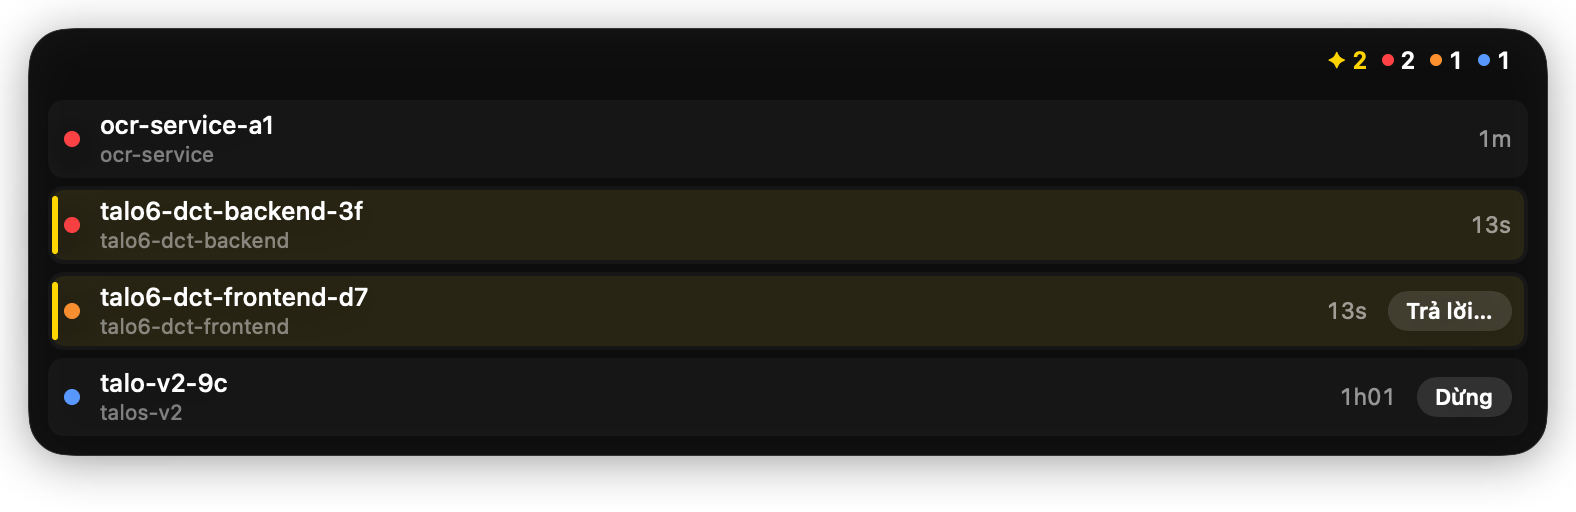
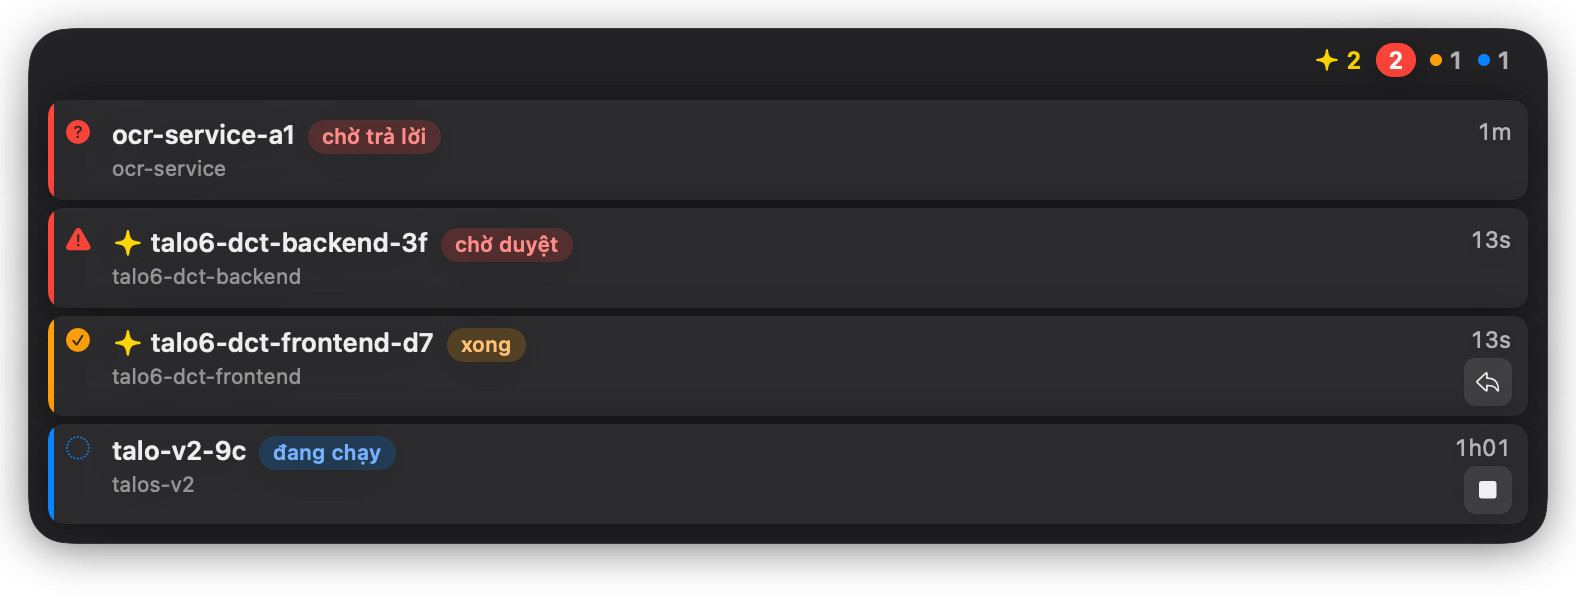
Phase 7: Keyboard navigation and docs

diff --git a/claude-sessions/Sources/ClaudeSessionsKit/WidgetView.swift b/claude-sessions/Sources/ClaudeSessionsKit/WidgetView.swift
@@ -190,6 +190,12 @@ public struct WidgetView: View {
             Button("Thoát") { NSApp.terminate(nil) }
         }
         .animation(.spring(response: 0.36, dampingFraction: 0.8), value: expanded)
+        .onChange(of: panel.keyboard) { _, on in
+            if let m = panel.keyMonitor { NSEvent.removeMonitor(m); panel.keyMonitor = nil }
+            // Keyboard mode starts on the first card and forgets the selection when it ends.
+            panel.selected = on ? store.sessions.first?.id : nil
+            if on { panel.keyMonitor = NSEvent.addLocalMonitorForEvents(matching: .keyDown) { handleKey($0) } }
+        }
         .onChange(of: expanded) { _, now in if !now { panel.openMenus = []; panel.closedOpen = false; panel.pruneQuestions(live: store.sessions.compactMap(\.question)) } }
         .animation(.spring(response: 0.36, dampingFraction: 0.8), value: store.sessions.count)
         .frame(maxWidth: .infinity, maxHeight: .infinity, alignment: panel.anchor.alignment)
@@ -227,7 +233,13 @@ public struct WidgetView: View {
                 rows.fixedSize(horizontal: false, vertical: true)
                     .frame(maxHeight: Layout.maxListHeight, alignment: panel.anchor.up ? .bottom : .top).clipped()
             } else {
-                ScrollView(.vertical) { rows }.frame(height: height)
+                ScrollViewReader { proxy in
+                    ScrollView(.vertical) { rows }
+                        .onChange(of: panel.selected) { _, id in
+                            if let id { withAnimation(.easeOut(duration: 0.15)) { proxy.scrollTo(id) } }
+                        }
+                }
+                .frame(height: height)
             }
         }
         .task(id: panel.dwellTarget(in: store)) {
@@ -238,8 +250,50 @@ public struct WidgetView: View {
         }
         .onChange(of: store.sessions.map(\.id)) { old, new in
             panel.noteOrderChange(from: old, to: new)
+            panel.reconcileSelection(old: old, new: new)
         }
         .transition(.opacity)
+    }
+
+    /// Keyboard mode: handles the key table on the selected card; returns nil when the event is consumed.
+    private func handleKey(_ e: NSEvent) -> NSEvent? {
+        guard panel.keyboard, panel.editing == nil, (e.window as? WidgetPanel)?.state === panel else { return e }
+        let ids = store.sessions.map(\.id)
+        let flags = e.modifierFlags.intersection([.command, .control, .option])
+        if e.keyCode == 53 {
+            panel.pinnedOpen = false; panel.pinnedEntered = false; panel.hovering = false; panel.keyboard = false
+            return nil
+        }
+        if e.keyCode == 126 || e.keyCode == 125 {
+            guard flags.isEmpty else { return e }
+            panel.moveSelection(e.keyCode == 126 ? -1 : 1, ids: ids)
+            return nil
+        }
+        let isReturn = e.keyCode == 36 || e.keyCode == 76
+        let key = isReturn ? "\r" : (e.charactersIgnoringModifiers ?? "").lowercased()
+        guard isReturn || flags.isEmpty, isReturn || key.count == 1 else { return e }
+        guard let id = panel.selected, let s = store.sessions.first(where: { $0.id == id }) else { NSSound.beep(); return nil }
+        let inCmux = !store.surfaceMisses.contains(id)
+        let form: FeedQuestion? = s.question.flatMap { store.blockState(of: s) == .form ? $0 : nil }
+        switch key {
+        case "\r" where flags == .command:
+            if let q = form, Feed.complete(q, answers: panel.answers[q.requestId] ?? [], other: panel.others[q.requestId] ?? [:]) { sendAnswer(s, q) } else { NSSound.beep() }
+        case "\r" where flags.isEmpty:
+            onAction(.jump(id))
+        case "a" where flags.isEmpty:
+            if let p = s.approvable, case .one(let one)? = s.pending, p.toolId == one.toolId {
+                let fit = Layout.commandFit(one.text)
+                if fit == .short || (fit == .long && store.shownCommands.contains(one.toolId)) { onAction(.approve(id, toolId: p.toolId)) } else { NSSound.beep() }
+            } else { NSSound.beep() }
+        case "d" where flags.isEmpty:
+            if let p = s.approvable { panel.editing = Store.Editing(id: id, kind: .deny, toolId: p.toolId) } else { NSSound.beep() }
+        case "r" where flags.isEmpty:
+            if s.canAskClaude && inCmux { panel.editing = Store.Editing(id: id, kind: .reply) } else { NSSound.beep() }
+        default:
+            guard flags.isEmpty, let n = Int(key), (1...9).contains(n) else { return e }
+            if let q = form, let hit = PanelState.optionAt(q, number: n) { panel.pick(q, hit.question, hit.label) } else { NSSound.beep() }
+        }
+        return nil
     }
 
     private var closedGroup: some View {
@@ -319,5 +373,5 @@ public final class DragHostingView<V: View>: NSHostingView<V> {
 public final class WidgetPanel: NSPanel {
     public override func constrainFrameRect(_ frameRect: NSRect, to screen: NSScreen?) -> NSRect { frameRect }
     public weak var state: PanelState?
-    public override var canBecomeKey: Bool { state?.editing != nil }
+    public override var canBecomeKey: Bool { state?.editing != nil || state?.keyboard == true }
 }

diff --git a/claude-sessions/Sources/ClaudeSessions/main.swift b/claude-sessions/Sources/ClaudeSessions/main.swift
@@ -83,14 +83,14 @@ final class AppDelegate: NSObject, NSApplicationDelegate {
         }
         window.contentView = host
 
-        state.$editing.sink { [weak self, weak window] e in
+        state.$editing.sink { [weak self, weak window, weak state] e in
             guard let window else { return }
             // @Published fires before the value is stored, so defer until canBecomeKey sees it.
             DispatchQueue.main.async { [weak self] in
                 guard let store = self?.store else { return }
                 if e != nil {
                     if !store.hidden { window.makeKey() }
-                } else if window.isKeyWindow && !store.hidden {
+                } else if window.isKeyWindow && !store.hidden && state?.keyboard != true {
                     // resignKey() is only a callback; reordering the panel is what hands key status back.
                     window.orderOut(nil)
                     window.orderFrontRegardless()
@@ -98,8 +98,20 @@ final class AppDelegate: NSObject, NSApplicationDelegate {
             }
         }.store(in: &p.cancellables)
         NotificationCenter.default.publisher(for: NSWindow.didResignKeyNotification, object: window)
-            .sink { [weak state] _ in state?.editing = nil }
+            .sink { [weak state] _ in state?.editing = nil; state?.keyboard = false }
             .store(in: &p.cancellables)
+        state.$keyboard.sink { [weak self, weak window] on in
+            guard let window else { return }
+            DispatchQueue.main.async { [weak self] in
+                guard let store = self?.store, !store.hidden else { return }
+                if on {
+                    window.makeKey()
+                } else if window.isKeyWindow {
+                    window.orderOut(nil)
+                    window.orderFrontRegardless()
+                }
+            }
+        }.store(in: &p.cancellables)
         if !store.hidden { window.orderFrontRegardless() }
         return p
     }
@@ -241,16 +253,25 @@ final class AppDelegate: NSObject, NSApplicationDelegate {
     /// Closes any open card; otherwise opens and pins the one on the screen with the mouse.
     func toggleOpen() {
         guard !store.hidden else { return }
-        if panels.values.contains(where: { $0.state.pinnedOpen || $0.state.hovering }) {
-            for p in panels.values { p.state.pinnedOpen = false; p.state.pinnedEntered = false; p.state.hovering = false }
+        let open = panels.values.filter { $0.state.pinnedOpen || $0.state.hovering }
+        if open.contains(where: { $0.state.keyboard }) {
+            for p in panels.values { p.state.pinnedOpen = false; p.state.pinnedEntered = false; p.state.hovering = false; p.state.keyboard = false }
+            return
+        }
+        if let p = open.first {
+            // Opened by hover: the hotkey takes the keyboard instead of closing.
+            enterKeyboard(p)
             return
         }
         let mouse = NSEvent.mouseLocation
         guard let p = panels.values.first(where: { $0.screen.contains(mouse) }) ?? panels.values.first else { return NSSound.beep() }
         p.state.pinnedOpen = true
         p.state.pinnedEntered = false
+        enterKeyboard(p)
         trackMouse()
     }
+
+    func enterKeyboard(_ p: Panel) { p.state.keyboard = true }
 
     /// Jumps to the session that has waited longest; repeated presses within 5 s move on. Sessions outside cmux are skipped.
     func jumpToNextWaiting() {
@@ -627,6 +648,7 @@ final class AppDelegate: NSObject, NSApplicationDelegate {
                 p.state.hovering = want
                 if want { store.peekUntil = nil }
             }
+            if !p.state.hovering && p.state.keyboard && p.state.editing == nil { p.state.keyboard = false }
             if !inside && p.state.hoveredRow != nil { p.state.hoveredRow = nil }
             // Only the card takes clicks, also while pinned open or editing: the rest of the canvas must reach the app beneath.
             if p.window.ignoresMouseEvents == inside { p.window.ignoresMouseEvents = !inside }

diff --git a/claude-sessions/Sources/ClaudeSessionsKit/PanelState.swift b/claude-sessions/Sources/ClaudeSessionsKit/PanelState.swift
@@ -32,7 +32,37 @@ public final class PanelState: ObservableObject {
     /// The `Khác…` field that was opened, same key form: only that question shows its field.
     @Published public var otherKey: String?
 
+    /// Opened or switched to by the hotkey: the panel is key and the arrow keys move `selected`.
+    @Published public var keyboard = false
+    @Published public var selected: String?
+    /// The local keyDown monitor installed while `keyboard` is on.
+    public var keyMonitor: Any?
+
     public init() {}
+
+    /// Moves `selected` by `delta` within `ids`, clamped at both ends; no selection yet picks the first.
+    public func moveSelection(_ delta: Int, ids: [String]) {
+        guard let cur = selected, let i = ids.firstIndex(of: cur) else { selected = ids.first; return }
+        selected = ids[max(0, min(ids.count - 1, i + delta))]
+    }
+
+    /// Keeps `selected` valid after the id order changed: a vanished id gives way to the one at its index, else the last, else nothing.
+    public func reconcileSelection(old: [String], new: [String]) {
+        guard let cur = selected, !new.contains(cur) else { return }
+        guard let i = old.firstIndex(of: cur), !new.isEmpty else { selected = new.last; return }
+        selected = new[min(i, new.count - 1)]
+    }
+
+    /// The question index and label for digit key `number`, counted continuously across the questions.
+    public static func optionAt(_ q: FeedQuestion, number: Int) -> (question: Int, label: String)? {
+        var n = number
+        guard n >= 1 else { return nil }
+        for (i, item) in q.questions.enumerated() {
+            if n <= item.options.count { return (i, item.options[n - 1].label) }
+            n -= item.options.count
+        }
+        return nil
+    }
 
     /// Picks `label` for question `i`: replaces the pick of a single-select question (and drops its Other text), toggles it in a multi-select one.
     public func pick(_ q: FeedQuestion, _ i: Int, _ label: String) {

diff --git a/claude-sessions/Tests/ClaudeSessionsKitTests/KeyboardTests.swift b/claude-sessions/Tests/ClaudeSessionsKitTests/KeyboardTests.swift
@@ -1,0 +1,53 @@
+import Foundation
+import Testing
+@testable import ClaudeSessionsKit
+
+private func question(_ counts: [Int]) -> FeedQuestion {
+    FeedQuestion(requestId: "r", createdAt: Date(), sessionId: "s", questions: counts.enumerated().map { i, n in
+        FeedQuestion.Item(prompt: "q\(i)", header: nil, multiSelect: false,
+                          options: (0..<n).map { FeedQuestion.Option(id: "\(i)-\($0)", label: "o\(i)-\($0)", description: nil) })
+    })
+}
+
+@Test func moveSelection() {
+    let panel = PanelState()
+    let ids = ["a", "b", "c"]
+    panel.moveSelection(1, ids: ids)
+    #expect(panel.selected == "a")
+    panel.moveSelection(1, ids: ids)
+    panel.moveSelection(1, ids: ids)
+    panel.moveSelection(1, ids: ids)
+    #expect(panel.selected == "c")
+    panel.moveSelection(-1, ids: ids)
+    panel.moveSelection(-1, ids: ids)
+    panel.moveSelection(-1, ids: ids)
+    #expect(panel.selected == "a")
+}
+
+@Test func selectionSurvivesRemoval() {
+    let panel = PanelState()
+    panel.selected = "b"
+    panel.reconcileSelection(old: ["a", "b", "c"], new: ["a", "c"])
+    #expect(panel.selected == "c")
+    panel.selected = "c"
+    panel.reconcileSelection(old: ["a", "c"], new: ["a"])
+    #expect(panel.selected == "a")
+    panel.reconcileSelection(old: ["a"], new: [])
+    #expect(panel.selected == nil)
+}
+
+@Test func digitMapsAcrossQuestions() {
+    let q = question([3, 3])
+    let hit = PanelState.optionAt(q, number: 4)
+    #expect(hit?.question == 1)
+    #expect(hit?.label == "o1-0")
+    #expect(PanelState.optionAt(q, number: 7) == nil)
+}
+
+@Test func editorCloseKeepsKeyboard() {
+    let panel = PanelState()
+    panel.keyboard = true
+    panel.editing = Store.Editing(id: "a", kind: .reply)
+    panel.editing = nil
+    #expect(panel.keyboard)
+}

diff --git a/claude-sessions/Sources/ClaudeSessionsKit/Theme.swift b/claude-sessions/Sources/ClaudeSessionsKit/Theme.swift
@@ -14,6 +14,7 @@ enum Theme {
         static let tertiaryText = Color.white.opacity(0.50)
         static let active = Color.white.opacity(0.22)
         static let selected = Color.white.opacity(0.32)
+        static let selectionRing = Color.white.opacity(0.60)
         static let primaryAction = Color(red: 0x30 / 255, green: 0xD1 / 255, blue: 0x58 / 255)
         static let onPrimary = Color.black
         static let fresh = Color.yellow
@@ -63,6 +64,7 @@ enum Theme {
         static let quotaBarHeight: CGFloat = 4
         static let badgeH: CGFloat = 6
         static let badgeV: CGFloat = 1
+        static let selectionRing: CGFloat = 1.5
     }
 
     enum Symbols {

diff --git a/claude-sessions/Sources/ClaudeSessionsKit/SessionCard.swift b/claude-sessions/Sources/ClaudeSessionsKit/SessionCard.swift
@@ -313,6 +313,11 @@ extension WidgetView {
         .background(Theme.Colors.card)
         .background(claudeNew ? Theme.Colors.fresh.opacity(0.08) : .clear)
         .overlay(alignment: .leading) { Rectangle().fill(statusColor).frame(width: 3) }
+        .overlay {
+            if panel.keyboard && panel.selected == s.id {
+                RoundedRectangle(cornerRadius: 8).stroke(Theme.Colors.selectionRing, lineWidth: Theme.Space.selectionRing)
+            }
+        }
         .clipShape(RoundedRectangle(cornerRadius: 8))
         .onHover { panel.noteRowHover(s.id, inside: $0) }
     }

diff --git a/README.md b/README.md
@@ -338,10 +338,25 @@ widget nổi luôn nằm trên cùng, kể cả trên app toàn màn hình (YouT
   chỉ kêu beep, không gõ gì).
 - Quota: header khung mở rộng hiện `5h N% · HH:mm · tuần N%` (giờ là lúc cửa sổ 5 giờ reset, giờ địa phương) đọc từ `~/.claude/plugins/oh-my-claudecode/.usage-cache-anthropic.json` do OMC HUD ghi (chỉ đọc lại khi file đổi, tối đa 10 giây một lần; `error: true`, thiếu `data` hoặc không có file thì ẩn). Mỗi phần trăm vàng từ 80, đỏ từ 95. Có `→ HH:mm` sau phần 5h khi tốc độ tăng trong 30 phút gần nhất của cùng cửa sổ 5 giờ (cần ít nhất 2 mẫu cách nhau từ 5 phút) chạm 100% trước lúc reset. `lastSuccessAt` cũ hơn 15 phút thì cả cụm mờ đi và thêm `cũ`. Viên thu gọn chỉ hiện thêm `N%` (số lớn hơn của hai phần, màu theo ngưỡng) khi từ 80% trở lên, viên rộng thêm 44 pt. Không đọc khi đặt `CLAUDE_SESSIONS_ROOT`.
 - `🤖×N`: thẻ `đang chạy` có `· 🤖×N` ở dòng repo (dưới tiêu đề, `thư mục · 🤖×N`) khi N subagent chạy nổi (`Agent` / `Task`) chưa có kết quả trong phần đuôi transcript đã đọc (256 KB, cùng lần đọc với dòng `▸ …`, không đọc thêm file); rê chuột để xem `description` của từng agent, mỗi dòng một agent. Agent chạy nền (`run_in_background`) trả kết quả ngay nên không tính ở đây mà vẫn hiện qua `chờ N agent nền`, cũng thành `· 🤖×N` trên dòng repo (không có mô tả khi rê chuột); agent gọi từ trước 256 KB cuối thì không thấy.
-- Phím tắt toàn hệ thống (Carbon `RegisterEventHotKey`, không cần quyền Accessibility): `⌃⌥Space` mở/đóng widget (khung mở nằm trên màn hình đang có chuột và giữ mở cho đến khi bấm lại hoặc chuột vào rồi rời khung; không làm gì khi widget đang ẩn vì không có session nào trong 30 giây), `⌃⌥→` nhảy tới pane cmux của session chờ lâu nhất (chờ duyệt/chờ trả lời trước, rồi session xong còn dấu mới; bấm lại trong 5 giây thì sang session kế tiếp, quá 5 giây thì quay về đầu; session ngoài cmux bị bỏ qua, không có thì beep). Chuột phải → `Phím tắt` → `Mở widget` / `Nhảy session chờ` để chọn tổ hợp khác hoặc `Tắt` (nhớ sau khi mở lại app); tổ hợp bị app khác chiếm thì dòng hiện `(đang bị app khác dùng)`. Không đăng ký phím khi chạy với `CLAUDE_SESSIONS_ROOT`.
+- Phím tắt toàn hệ thống (Carbon `RegisterEventHotKey`, không cần quyền Accessibility): `⌃⌥Space` mở/đóng widget (khung mở nằm trên màn hình đang có chuột, bật chế độ bàn phím và giữ mở cho đến khi bấm lại, bấm `Esc`, hoặc chuột vào rồi rời khung; bấm khi widget đang mở do rê chuột thì chuyển sang chế độ bàn phím thay vì đóng; không làm gì khi widget đang ẩn vì không có session nào trong 30 giây), `⌃⌥→` nhảy tới pane cmux của session chờ lâu nhất (chờ duyệt/chờ trả lời trước, rồi session xong còn dấu mới; bấm lại trong 5 giây thì sang session kế tiếp, quá 5 giây thì quay về đầu; session ngoài cmux bị bỏ qua, không có thì beep). Chuột phải → `Phím tắt` → `Mở widget` / `Nhảy session chờ` để chọn tổ hợp khác hoặc `Tắt` (nhớ sau khi mở lại app); tổ hợp bị app khác chiếm thì dòng hiện `(đang bị app khác dùng)`. Không đăng ký phím khi chạy với `CLAUDE_SESSIONS_ROOT`.
 - `Vừa đóng (N)`: dòng cuối của danh sách mở rộng (ẩn khi N = 0; bấm để mở/đóng, đóng lại khi widget thu gọn) liệt kê tối đa 5 session vừa kết thúc trong 24 giờ qua, mới nhất trước, mỗi dòng có tiêu đề, `thư mục` và `đóng 12p`. Session được coi là đóng khi lần quét trước còn thấy mà lần này không còn và tiến trình của nó đã kết thúc (nếu tiến trình còn chạy lúc file session vừa biến mất thì widget kiểm tra lại trong khoảng 10 giây; `/clear` giữ nguyên pid nên không phải là đóng; lần quét đầu không đóng gì; session sống lại thì rời danh sách). Danh sách được nhớ qua `UserDefaults` (khoá `closedSessions`; không dùng khi chạy với `CLAUDE_SESSIONS_ROOT`). Bấm một dòng mở workspace cmux mới trong đúng thư mục cũ chạy `claude --resume <id>` (`cmux new-workspace --cwd … --command …`) rồi dòng biến mất; lỗi thì chép `cd '<thư mục>' && claude --resume <id>` vào clipboard và beep.
 - `Trả lời…`: nút cạnh thời gian của thẻ `xong` (hoặc `chờ N agent nền`) mở ô nhập; Enter gõ nội dung vào pane cmux của session rồi gửi (để trống thì không gửi; Esc huỷ). Chỉ gửi khi session còn `xong` ngay trước lúc gõ, và nút bị làm mờ kèm chú thích `Chỉ dùng được trong cmux` khi session ngoài cmux.
 - `Dừng`: nút cạnh thời gian của thẻ `đang chạy`; bấm lần đầu đổi thành `Bấm lần nữa để dừng`, bấm lần hai trong 3 giây thì gửi Esc vào pane cmux (Claude hiện "Interrupted"); quá 3 giây thì về lại `Dừng`. Chỉ gửi khi session còn `đang chạy` (không phải `chờ N agent nền`); ngoài cmux thì bị làm mờ như `Trả lời…`.
+- Chế độ bàn phím (sau khi mở bằng phím tắt; panel thành key window, `didResignKey` luôn tắt chế độ này, nên rê chuột vào widget khi đang gõ ở terminal không cướp phím):
+
+| Phím | Việc làm |
+|---|---|
+| `↑` / `↓` | chọn thẻ trước / sau |
+| `↩` | nhảy tới pane cmux của thẻ (widget vẫn mở) |
+| `A` | cho phép (chỉ khi thẻ chờ duyệt và lệnh đã hiện đủ) |
+| `D` | mở ô lý do từ chối |
+| `R` | mở ô trả lời (session xong, chạy trong cmux) |
+| `1`-`9` | chọn đáp án thứ n của câu hỏi (đánh số liên tục qua các câu hỏi) |
+| `⌘↩` | gửi câu trả lời khi mọi câu hỏi đã có lựa chọn |
+| `Esc` | đang gõ: thôi gõ; không gõ: đóng widget và trả phím cho app trước |
+
+Phím không áp dụng cho thẻ đang chọn thì kêu beep. Chế độ bàn phím chỉ bật khi bấm phím tắt mở widget (bấm khi widget đang mở do rê chuột thì chuyển sang chế độ bàn phím thay vì đóng); rê chuột vào widget khi đang gõ ở terminal không cướp phím.
+
 - Câu hỏi của Claude (AskUserQuestion): khi session `chờ trả lời` và cmux Feed có câu hỏi đó, thẻ hiện thẻ `header` + câu hỏi (thay phần câu trả lời cuối), mỗi lựa chọn là một nút (hỏi một lựa chọn) hoặc ô bật/tắt `☑`/`☐` (chọn nhiều; `description` hiện khi rê chuột), ô `Khác…` để gõ câu trả lời riêng cho từng câu hỏi, nút `Gửi` (chỉ bấm được khi mọi câu hỏi có lựa chọn hoặc chữ `Khác…`) và `còn m:ss` đếm tới hết cửa sổ 120 giây của Feed tính từ lúc câu hỏi được tạo. `Gửi` trả lời qua socket của cmux (`feed.list` rồi `feed.question.reply`, không cần mật khẩu từ ngoài cmux, không gõ phím vào terminal): sau khi gửi thẻ hiện `Đã gửi` đến khi session chạy lại. Hết 120 giây, câu hỏi biến khỏi Feed (đã trả lời ở terminal), gửi lỗi (kêu beep) hoặc hình dạng cmux không nhận (câu hỏi không có lựa chọn) thì chỉ còn nút `Trả lời trong cmux` (nhảy tới pane). Hỗ trợ (đã chạy thật với Claude, haiku): một câu hỏi chọn một, chọn nhiều (gửi các nhãn nối bằng `, `), nhiều câu hỏi, và `Khác…` gõ tự do. Widget chỉ hỏi Feed khi có session `đang chạy` hoặc `chờ trả lời` (không phải chờ duyệt), mỗi giây một lượt; lỗi socket thì tắt tính năng 15 giây rồi thử lại; chỉ trả lời requestId lấy từ `feed.list`. Câu hỏi mới xuất hiện khi session còn `đang chạy` được tính như session vừa chuyển sang chờ (dấu mới, kêu `Funk`, tự mở 5 giây) và không kêu lần nữa khi trạng thái đổi sang `chờ`. Không có file `~/.local/state/cmux/last-socket-path` thì tính năng tắt.
 - Không còn session 30 giây thì widget ẩn, có session thì hiện lại; mở app lúc chưa có session nào thì widget ẩn ngay.
 

diff --git a/claude-sessions/README.md b/claude-sessions/README.md
@@ -7,7 +7,23 @@ Widget macOS nổi luôn nằm trên cùng, hiện các session Claude Code đan
 ## Tính năng
 
 ### Danh sách mở rộng
-Rê chuột vào viên thì mở danh sách các session, mỗi thẻ có tiêu đề, thư mục, chấm màu trạng thái và thời gian. Header gom số session theo nhóm màu.
+Rê chuột vào viên thì mở danh sách các session, mỗi thẻ có tiêu đề, thư mục, chấm màu trạng thái và thời gian. Header gom số session theo nhóm màu và hiện quota 5 giờ / tuần; mỗi thẻ có thẻ trạng thái (`chờ duyệt`, `xong`, `đang chạy`...) và thẻ PR, và huy hiệu đỏ ở viên thu gọn đếm session đang chờ. Câu hỏi của Claude hiện thành danh sách đánh số.
+
+### Phím tắt bàn phím
+Bấm phím tắt mở widget (`⌃⌥Space`) thì thẻ được chọn bằng vòng viền trắng và điều khiển bằng bàn phím:
+
+| Phím | Việc làm |
+|---|---|
+| `↑` / `↓` | chọn thẻ trước / sau |
+| `↩` | nhảy tới pane cmux của thẻ (widget vẫn mở) |
+| `A` | cho phép (chỉ khi thẻ chờ duyệt và lệnh đã hiện đủ) |
+| `D` | mở ô lý do từ chối |
+| `R` | mở ô trả lời (session xong, chạy trong cmux) |
+| `1`-`9` | chọn đáp án thứ n của câu hỏi (đánh số liên tục qua các câu hỏi) |
+| `⌘↩` | gửi câu trả lời khi mọi câu hỏi đã có lựa chọn |
+| `Esc` | đang gõ: thôi gõ; không gõ: đóng widget và trả phím cho app trước |
+
+Phím không áp dụng cho thẻ đang chọn thì kêu beep. Chế độ bàn phím chỉ bật khi bấm phím tắt mở widget (bấm khi widget đang mở do rê chuột thì chuyển sang chế độ bàn phím thay vì đóng); rê chuột vào widget khi đang gõ ở terminal không cướp phím.
 
 ### Viên thu gọn
 Khi không rê chuột, widget chỉ là một viên nhỏ với chấm trạng thái và số session theo màu (đỏ chờ, cam xong, xanh đang chạy); nhóm vàng `✦` là session có tin mới.
